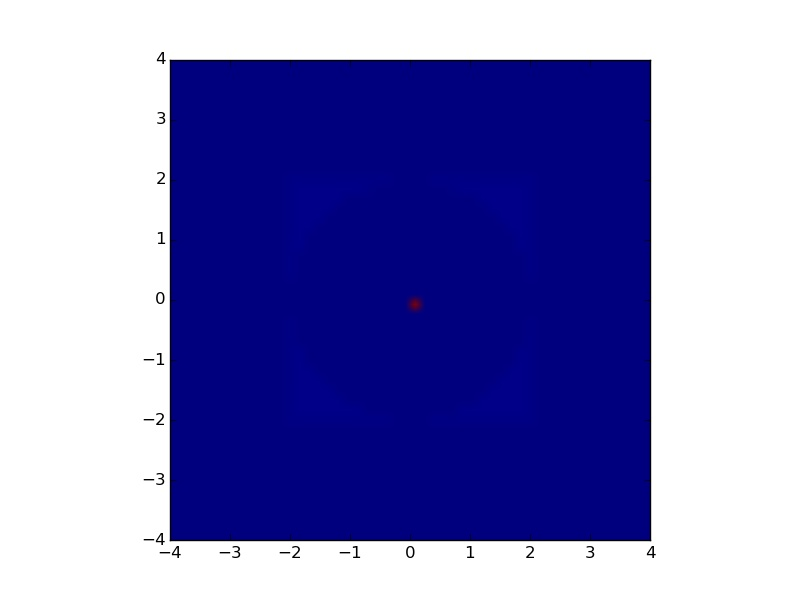
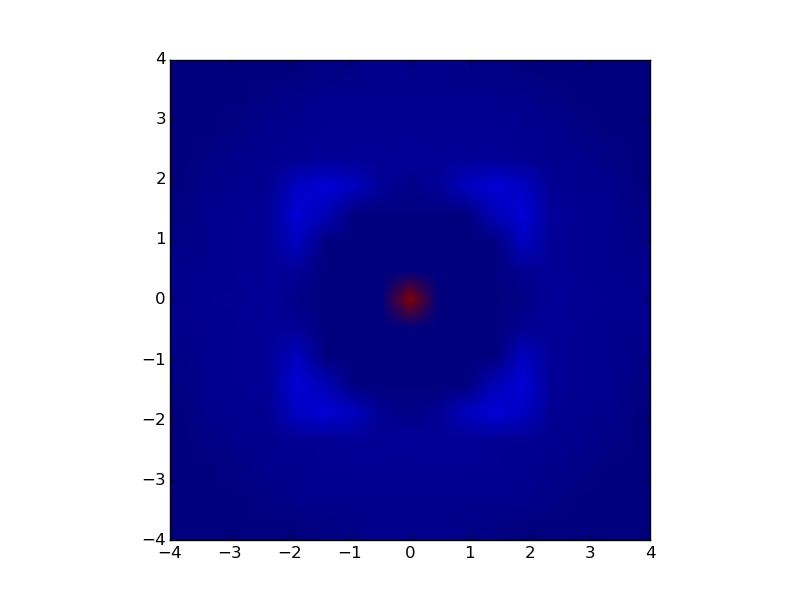
cleanup

diff --git a/plot_data.py b/plot_data.py
@@ -14,7 +14,7 @@ for file in sys.argv:
 	df.columns=['x', 'y' , 'one']
 	x = df['x'].values
 	y = df['y'].values
-	heatmap, xedges, yedges = np.histogram2d(x, y, bins=50)
+	heatmap, xedges, yedges = np.histogram2d(x, y, bins=17)
 	extent = [xedges[0], xedges[-1], yedges[0], yedges[-1]]
 
 	plt.clf()
